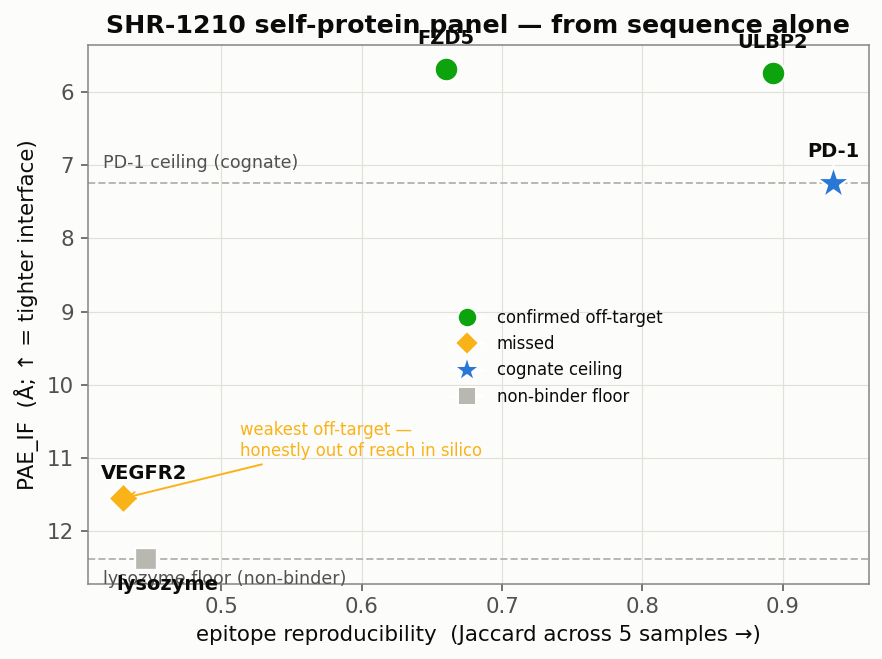
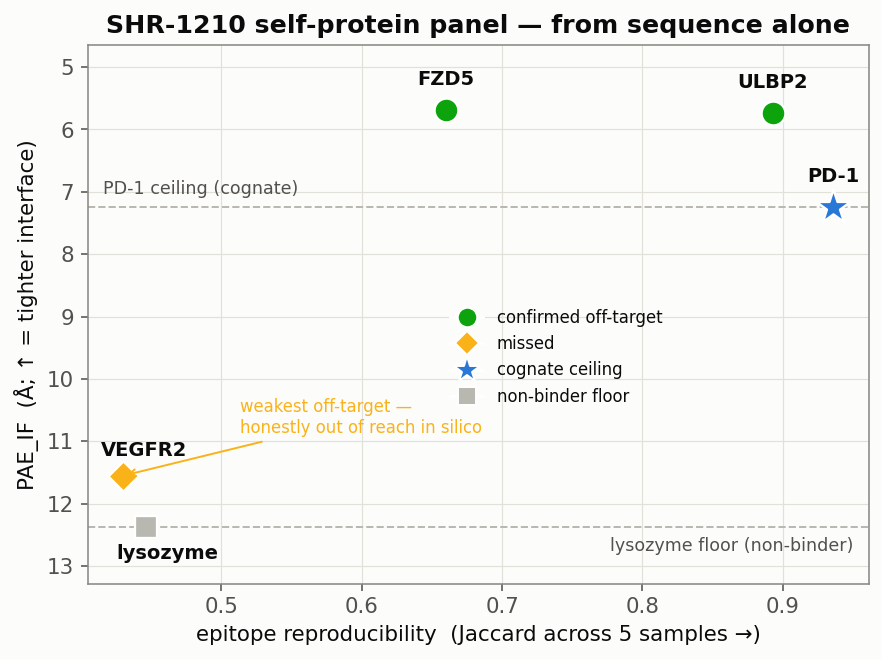
Fix overlapping labels in dashboard Chart A
The floor annotation (left-anchored) ran rightward into the "lysozyme" point
label, and the top point labels (FZD5/ULBP2) sat against the title with no
headroom. Moved the floor annotation to the empty bottom-right and added
top/bottom y-axis headroom. Deterministic; other figures unchanged.

diff --git a/src/crossflag/demo/figures.py b/src/crossflag/demo/figures.py
@@ -72,7 +72,8 @@ def chart_a_panel(rows) -> str:
     ax.axhline(floor.PAE_IF, color=NEUTRAL, ls="--", lw=1)
     ax.text(0.02, ceil.PAE_IF - 0.15, "PD-1 ceiling (cognate)", ha="left",
             va="bottom", color=INK2, fontsize=9, transform=ax.get_yaxis_transform())
-    ax.text(0.02, floor.PAE_IF + 0.15, "lysozyme floor (non-binder)", ha="left",
+    # floor label on the empty bottom-right, clear of the lysozyme marker/label (left)
+    ax.text(0.98, floor.PAE_IF + 0.15, "lysozyme floor (non-binder)", ha="right",
             va="top", color=INK2, fontsize=9, transform=ax.get_yaxis_transform())
 
     style = {
@@ -102,6 +103,9 @@ def chart_a_panel(rows) -> str:
                 arrowprops=dict(arrowstyle="->", color=WARNING, lw=1))
 
     ax.invert_yaxis()  # up = tighter interface
+    # headroom so the top point labels clear the title and the lysozyme label clears the edge
+    _paes = [rows[r].PAE_IF for r in panel.PANEL_RUNS]
+    ax.set_ylim(max(_paes) + 0.9, min(_paes) - 1.05)
     ax.set_xlabel("epitope reproducibility  (Jaccard across 5 samples →)")
     ax.set_ylabel("PAE_IF  (Å; ↑ = tighter interface)")
     ax.set_title("SHR-1210 self-protein panel — from sequence alone",